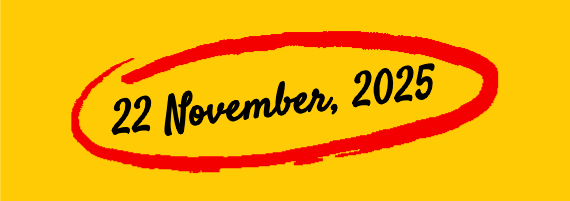
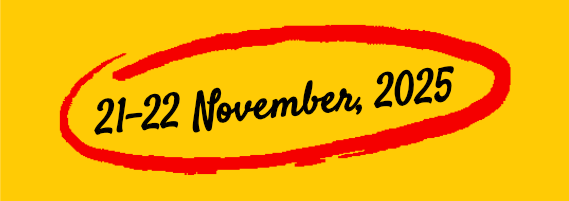
[FEATURE] Update event for new date range (#52)
* refactor: replace images

- replace script text to show new date range

* refactor: replace image

- add better alt description for images

* refactor: update date range

- update dateTime to represent date range

* refactor: announcement

* refactor: layout

- feature two locations
- addresses
- two maps
- add direction buttons
- add negative space

* refactor: heading structure

- semantic org of location headings

* refactor: map styling

- add subtle box-shadow

* fix: time span

- address time span ambiguity

* refactor: fix details

- fix ending time
- fix event name

* chore: run `date2025.png` through imageOptim

---------

Pull request: [FEATURE] Update event for new date range
# Pull Request

## Description

Fixes #50 

- Replace event image for new date range
- Update date in two places
- Update dateTime for screen readers

## Type of Change

<!-- Mark the relevant option with an "x" -->

- [ ] Bug fix (non-breaking change which fixes an issue)
- [x] New feature (non-breaking change which adds functionality)
- [ ] Breaking change (fix or feature that would cause existing functionality to not work as expected)
- [ ] Documentation update
- [ ] Code refactoring
- [ ] Performance improvement
- [x] Accessibility improvement
- [ ] Other (please describe):

## Related Issues

<!-- Link any related issues using "Fixes #123" or "Closes #123" -->

## Code Quality Checklist

<!-- Mark completed items with an "x" -->

- [x] Code follows the project's coding standards
- [x] Self-review of the code has been performed
- [ ] Code is properly commented where necessary
- [x] No console.log statements left in the code
- [ ] No hardcoded values that should be configurable
- [ ] Error handling is implemented where appropriate

## Testing

<!-- Mark completed items with an "x" -->

- [ ] Changes have been tested locally
- [ ] All existing tests pass (if applicable)
- [ ] New tests have been added for new functionality (if applicable)
- [ ] Manual testing has been performed
- [ ] Accessibility testing has been performed (for UI changes)

## Accessibility (for UI changes)

<!-- Mark completed items with an "x" -->
[…]

diff --git a/src/layouts/LocationSection.jsx b/src/layouts/LocationSection.jsx
@@ -5,77 +5,169 @@ function LocationSection() {
     <section
       id="location"
       className="flex h-auto items-center justify-center bg-slate-100 py-16 md:py-28"
+      aria-labelledby="location-heading"
     >
-      <div className="flex flex-col lg:mb-0 lg:flex-row lg:space-x-10 xl:space-x-28">
-        <div className="mb-4 lg:mb-0">
+      <div className="flex flex-col space-y-8">
+        {/* When Section */}
+        <div className="flex justify-center">
           <div className="flex items-center">
             <div className="mx-2 flex h-11 w-11 items-center justify-center rounded-full bg-yellow-500">
-              <FaClock className="h-6 w-6 text-white" />
+              <FaClock className="h-6 w-6 text-white" aria-hidden="true" />
             </div>
-            <span className="text-lg font-semibold md:text-xl lg:text-2xl">
-              When
-            </span>
+            <h2
+              id="location-heading"
+              className="text-lg font-semibold md:text-xl lg:text-2xl"
+            >
+              When & Where
+            </h2>
           </div>
-          <div className="ml-16">
+        </div>
+        <div className="flex justify-center pb-16">
+          <div className="text-center">
             <time
-              dateTime="2025-11-22T09:00:00-05:00"
+              dateTime="2025-11-21T09:00:00-05:00/2025-11-22T17:00:00-05:00"
               className="block whitespace-nowrap"
             >
-              Saturday, November 22nd, 2025
+              Friday, November 21st - Saturday, November 22nd, 2025
             </time>
-            <time
-              dateTime="2025-11-22T09:00:00-05:00/2025-11-22T17:00:00-05:00"
-              className="block"
-            >
-              9:00 AM - 5:00 PM
-            </time>
-          </div>
-        </div>
-
-        <div className="mb-4 flex flex-col lg:mb-0">
-          <div className="flex items-center">
-            <div className="mx-2 flex h-11 w-11 items-center justify-center rounded-full bg-yellow-500">
-              <FaMapMarkerAlt className="h-6 w-6 text-white" />
+            <div className="mt-2 space-y-1">
+              <time
+                dateTime="2025-11-21T09:00:00-05:00/2025-11-21T17:00:00-05:00"
+                className="block"
+              >
+                Friday: 9:00 AM - 5:00 PM
+              </time>
+              <time
+                dateTime="2025-11-22T09:00:00-05:00/2025-11-22T21:00:00-05:00"
+                className="block"
+              >
+                Saturday: 9:00 AM - 9:00 PM
+              </time>
             </div>
-            <span className="text-lg font-semibold md:text-xl lg:text-2xl">
-              Where
-            </span>
-          </div>
-          <div className="ml-16">
-            <dl>
-              <dt className="sr-only">Venue</dt>
-              <dd className="font-medium xl:whitespace-nowrap">
-                <strong>MotorCity Casino Hotel</strong>
-              </dd>
-              <dt className="sr-only">Address</dt>
-              <dd>
-                <address
-                  className="not-italic xl:whitespace-nowrap"
-                  aria-label="Event venue address"
-                >
-                  2901 Grand River Ave, Detroit, MI 48201
-                </address>
-              </dd>
-            </dl>
-            <a
-              href="https://www.google.com/maps/dir//2901+Grand+River+Ave,+Detroit,+MI+48201/@42.3388889,-83.0703527,1162m/data=!3m2!1e3!5s0x883b2d527a607d6f:0xe075cfc124b83793!4m20!1m10!3m9!1s0x883b2d4d71da8bb1:0xe4a8072514ccbe55!2sMotorCity+Casino+Hotel!5m2!4m1!1i2!8m2!3d42.3388889!4d-83.0677778!16zL20vMDdtMmN3!3m8!1s0x883b2d4d71da8bb1:0xe4a8072514ccbe55!5m2!4m1!1i2!8m2!3d42.3388889!4d-83.0677778!16zL20vMDdtMmN3?entry=ttu"
-              target="_blank"
-              className="mb-4 mt-3 inline-flex items-center rounded bg-sky-900 px-8 py-5 text-primary-50 shadow-xl transition delay-75 duration-100 ease-in-out hover:-translate-y-1 hover:scale-110 hover:cursor-pointer focus:outline-none focus:ring-2 focus:ring-primary-400 focus:ring-offset-2"
-              rel="noreferrer"
-              aria-label="Get directions to MotorCity Casino Hotel (opens in new tab)"
-            >
-              GET DIRECTIONS
-            </a>
           </div>
         </div>
 
-        <div className="w-full lg:w-1/2">
-          <iframe
-            title="MotorCity Casino Hotel"
-            className="h-64 w-full lg:h-auto"
-            src="https://www.google.com/maps/embed?pb=!1m18!1m12!1m3!1d5043.696479671668!2d-83.07032016920797!3d42.33888511227875!2m3!1f0!2f0!3f0!3m2!1i1024!2i768!4f13.1!3m3!1m2!1s0x883b2d4d71da8bb1%3A0xe4a8072514ccbe55!2sMotorCity%20Casino%20Hotel!5e1!3m2!1sen!2sus!4v1757466338342!5m2!1sen!2sus"
-            allowFullScreen
-          ></iframe>
+        {/* Friday Location Row */}
+        <div className="flex w-full flex-col pb-12 lg:flex-row lg:space-x-6">
+          {/* Friday Location Info */}
+          <div className="mb-4 flex flex-col lg:mb-0 lg:w-1/2">
+            <div className="mb-4 flex items-center">
+              <div className="mx-2 flex h-11 w-11 items-center justify-center rounded-full bg-yellow-500">
+                <FaMapMarkerAlt
+                  className="h-6 w-6 text-white"
+                  aria-hidden="true"
+                />
+              </div>
+              <h3 className="text-lg font-semibold md:text-xl lg:text-2xl">
+                Friday Location
+              </h3>
+            </div>
+            <div className="ml-16">
+              <h4 className="mb-2 text-base font-semibold text-gray-800">
+                Friday, November 21st - IBM Agentic AI Hackathon
+              </h4>
+              <dl>
+                <dt className="sr-only">Venue</dt>
+                <dd className="font-medium">
+                  <strong>
+                    Wayne State University - Saint Andrew&apos;s Memorial
+                    Episcopal Church
+                  </strong>
+                </dd>
+                <dt className="sr-only">Address</dt>
+                <dd>
+                  <address
+                    className="not-italic"
+                    aria-label="Hackathon venue address"
+                  >
+                    Detroit, MI
+                  </address>
+                </dd>
+              </dl>
+              <a
+                href="https://www.google.com/maps/dir//Saint+Andrew's+Memorial+Episcopal+Church,+Detroit,+MI/@42.355556,-83.0730112,881m/data=!3m2!1e3!4b1!4m6!3m5!1s0x8824d2a41779eb09:0xee199848d652faba!8m2!3d42.355556!4d-83.0730112!16s%2Fm%2F04f4ds4?entry=ttu"
+                target="_blank"
+                className="mb-4 mt-3 inline-flex items-center rounded bg-sky-900 px-8 py-5 text-primary-50 shadow-xl transition delay-75 duration-100 ease-in-out hover:-translate-y-1 hover:scale-110 hover:cursor-pointer focus:outline-none focus:ring-2 focus:ring-primary-400 focus:ring-offset-2"
+                rel="noreferrer"
+                aria-label="Get directions to Wayne State University Saint Andrew's Memorial Episcopal Church (opens in new tab)"
+              >
+                GET HACKATHON DIRECTIONS
+              </a>
+            </div>
+          </div>
+
+          {/* Friday Map */}
+          <div className="lg:w-1/2">
+            <h4 className="mb-2 text-sm font-semibold text-gray-700">
+              Friday - Wayne State University Location
+            </h4>
+            <iframe
+              title="Wayne State University - Saint Andrew's Memorial Episcopal Church"
+              className="h-48 w-full border-4 border-sky-900 shadow-lg lg:h-56"
+              src="https://www.google.com/maps/embed?pb=!1m18!1m12!1m3!1d2948.5!2d-83.0730112!3d42.355556!2m3!1f0!2f0!3f0!3m2!1i1024!2i768!4f13.1!3m3!1m2!1s0x8824d2a41779eb09%3A0xee199848d652faba!2sSaint%20Andrew%27s%20Memorial%20Episcopal%20Church!5e1!3m2!1sen!2sus!4v1757466338342!5m2!1sen!2sus"
+              allowFullScreen
+            ></iframe>
+          </div>
+        </div>
+
+        {/* Saturday Location Row */}
+        <div className="flex w-full flex-col lg:flex-row lg:space-x-6">
+          {/* Saturday Location Info */}
+          <div className="mb-4 flex flex-col lg:mb-0 lg:w-1/2">
+            <div className="mb-4 flex items-center">
+              <div className="mx-2 flex h-11 w-11 items-center justify-center rounded-full bg-yellow-500">
+                <FaMapMarkerAlt
+                  className="h-6 w-6 text-white"
+                  aria-hidden="true"
+                />
+              </div>
+              <h3 className="text-lg font-semibold md:text-xl lg:text-2xl">
+                Saturday Location
+              </h3>
+            </div>
+            <div className="ml-16">
+              <h4 className="mb-2 text-base font-semibold text-gray-800">
+                Saturday, November 22nd - Main DevFest Event
+              </h4>
+              <dl>
+                <dt className="sr-only">Venue</dt>
+                <dd className="font-medium xl:whitespace-nowrap">
+                  <strong>MotorCity Casino Hotel</strong>
+                </dd>
+                <dt className="sr-only">Address</dt>
+                <dd>
+                  <address
+                    className="not-italic xl:whitespace-nowrap"
+                    aria-label="Main event venue address"
+                  >
+                    2901 Grand River Ave, Detroit, MI 48201
+                  </address>
+                </dd>
+              </dl>
+              <a
+                href="https://www.google.com/maps/dir//2901+Grand+River+Ave,+Detroit,+MI+48201/@42.3388889,-83.0703527,1162m/data=!3m2!1e3!5s0x883b2d527a607d6f:0xe075cfc124b83793!4m20!1m10!3m9!1s0x883b2d4d71da8bb1:0xe4a8072514ccbe55!2sMotorCity+Casino+Hotel!5m2!4m1!1i2!8m2!3d42.3388889!4d-83.0677778!16zL20vMDdtMmN3!3m8!1s0x883b2d4d71da8bb1:0xe4a8072514ccbe55!5m2!4m1!1i2!8m2!3d42.3388889!4d-83.0677778!16zL20vMDdtMmN3?entry=ttu"
+                target="_blank"
+                className="mb-4 mt-3 inline-flex  items-center bg-sky-900 px-8 py-5 text-primary-50 shadow-xl transition delay-75 duration-100 ease-in-out hover:-translate-y-1 hover:scale-110 hover:cursor-pointer focus:outline-none focus:ring-2 focus:ring-primary-400 focus:ring-offset-2"
+                rel="noreferrer"
+                aria-label="Get directions to MotorCity Casino Hotel (opens in new tab)"
+              >
+                GET MOTOR CITY DIRECTIONS
+              </a>
+            </div>
+          </div>
+
+          {/* Saturday Map */}
+          <div className="lg:w-1/2">
+            <h4 className="mb-2 text-sm font-semibold text-gray-700">
+              Saturday - MotorCity Casino Hotel Location
+            </h4>
+            <iframe
+              title="MotorCity Casino Hotel"
+              className="h-48 w-full border-4 border-sky-900 shadow-xl lg:h-56"
+              src="https://www.google.com/maps/embed?pb=!1m18!1m12!1m3!1d5043.696479671668!2d-83.07032016920797!3d42.33888511227875!2m3!1f0!2f0!3f0!3m2!1i1024!2i768!4f13.1!3m3!1m2!1s0x883b2d4d71da8bb1%3A0xe4a8072514ccbe55!2sMotorCity%20Casino%20Hotel!5e1!3m2!1sen!2sus!4v1757466338342!5m2!1sen!2sus"
+              allowFullScreen
+            ></iframe>
+          </div>
         </div>
       </div>
     </section>

diff --git a/src/layouts/LandingSection.jsx b/src/layouts/LandingSection.jsx
@@ -10,30 +10,36 @@ function LandingSection() {
   return (
     <section id="landing" className="mt-16">
       <div className="flex flex-wrap bg-black">
-        <div className="w-full p-12 sm:w-1/2">
+        <div className="flex w-full items-center justify-center p-12 lg:w-1/2">
           <ResponsiveImage
             className="w-full"
             webpSrc={DevFestLogoWebp}
             pngSrc={DevFestLogoPng}
-            alt="Michigan DevFest Logo"
+            alt="Michigan DevFest 2025 logo with Detroit skyline and developer graphics"
           />
         </div>
 
-        <div className="flex w-full flex-col justify-between bg-primary-400 sm:w-1/2">
+        <div className="flex w-full flex-col justify-between bg-primary-400 lg:w-1/2">
           <div className="flex grow flex-col items-center justify-center space-y-8 p-10">
             <ResponsiveImage
               className="w-[570px] max-w-full"
               webpSrc={dateWebp}
               pngSrc={datePng}
-              alt="Date and Red Circle"
+              alt="November 21-22, 2025 event dates with red circular badge"
             />
 
             <p className="text-justify text-sm font-normal lg:text-base xl:text-lg">
               The Detroit and Ann Arbor Google Developer Groups (GDG) are
-              teaming up once again to bring you the 10th Michigan DevFest on
-              November 22, 2025, at Motor City Casino. With our 11th DevFest, we
-              aim to put together a great day of networking and knowledge
-              sharing for all involved.
+              teaming up once again to bring you the 11th Michigan DevFest on
+              November 21-22, 2025.
+            </p>
+            <p className="text-justify text-sm font-normal lg:text-base xl:text-lg">
+              Join us on Friday, November 21st for an Agentic AI Hackathon at
+              Wayne State University&apos;s Saint Andrew&apos;s Memorial
+              Episcopal Church in Detroit, followed by the main DevFest event on
+              Saturday, November 22nd at Motor City Casino. With this
+              year&apos;s DevFest, we aim to put together a great weekend of
+              networking, innovation, and knowledge sharing for all involved.
             </p>
             <a
               href="https://www.papercall.io/midevfest2025"